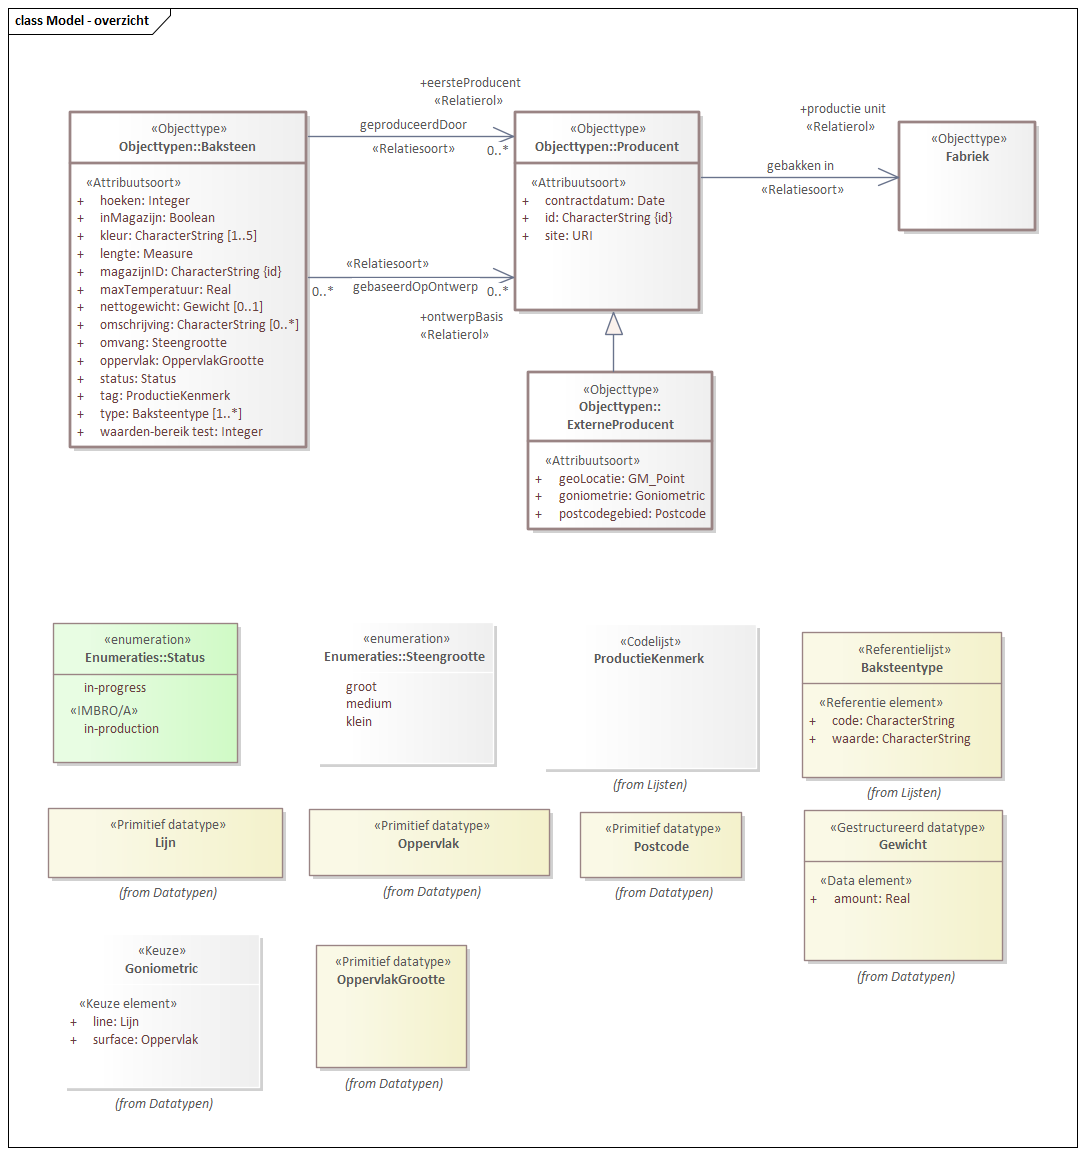
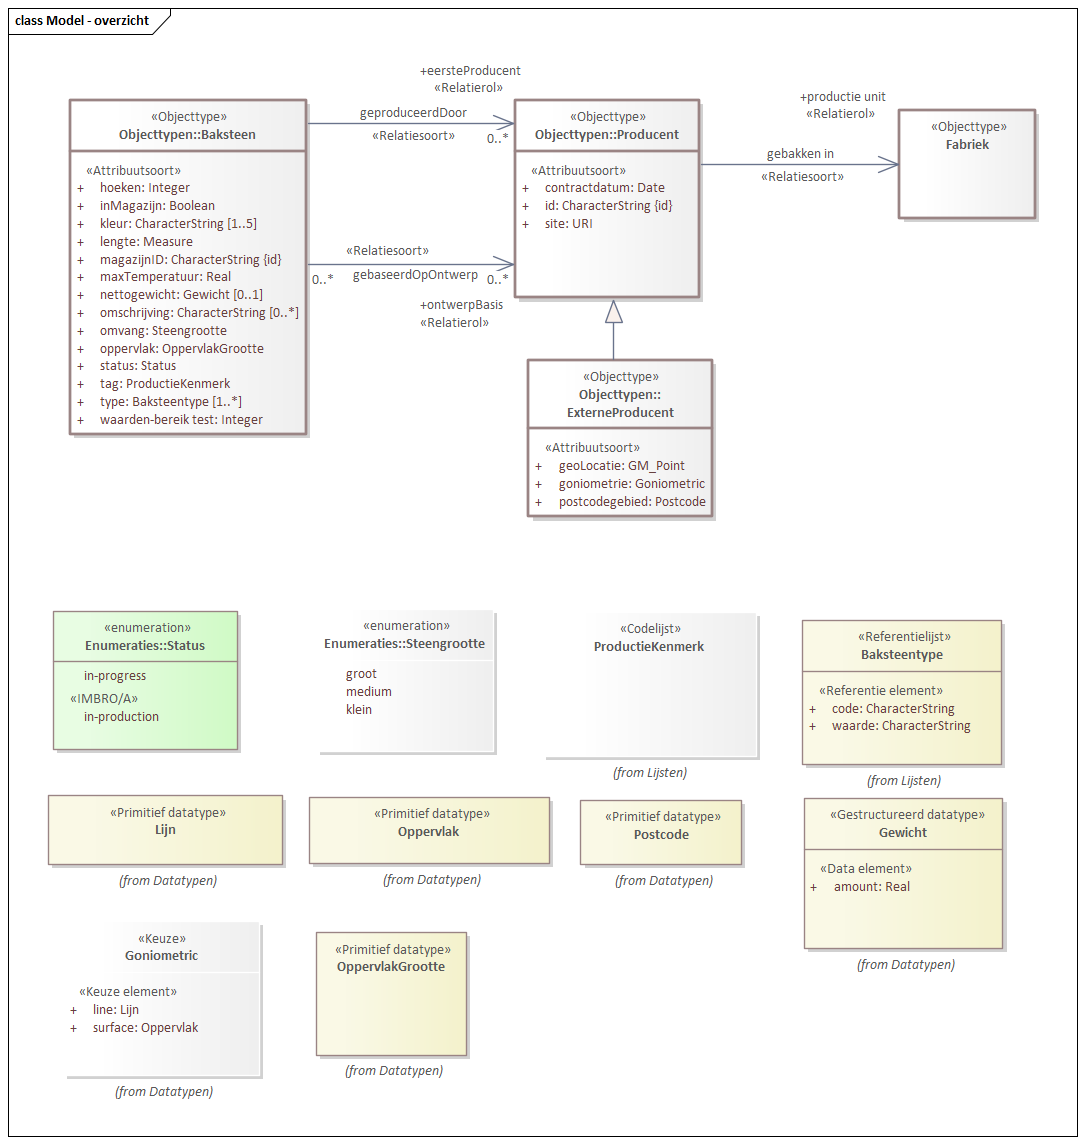
MIMCM-Bakstenenconceptueelmodel-1.0.0-2-20130318-20230112-090946

diff --git a/data/SAMPLE-cat.respec.html b/data/SAMPLE-cat.respec.html
@@ -1,11 +1,11 @@
 
 <!DOCTYPE HTML><section id="cat" class="normative">
    <h2>Gegevensdefinitie</h2>
-   <!--NEN3610-2022-Bakstenenconceptueelmodel-1.0.0-2-20130318-20230112-095435 imvertor Nightly-build.2--><a class="anchor" id="global_packages"></a><section id="global_packages">
+   <!--MIMCM-Bakstenenconceptueelmodel-1.0.0-2-20130318-20230112-090946 imvertor Nightly-build.2--><a class="anchor" id="global_packages"></a><section id="global_packages">
       <h3>Model   Bakstenen conceptueel model</h3>
       <section id="EAID_08513AA0_8A50_46c1_AD86_9B80D9A6AAE1">
          <h4>   Model - overzicht</h4>
-         <div class="imageinfo overview"><img src="data/Images/EAID_08513AA0_8A50_46c1_AD86_9B80D9A6AAE1.png" usemap="#imagemap-EAID_08513AA0_8A50_46c1_AD86_9B80D9A6AAE1" alt="Diagram &#xA;                        Overzicht van alle constructies in dit conceptuele model.&#xA;                        &#xA;                        Ook een regel met een diacriet [é].&#xA;                     "><map name="imagemap-EAID_08513AA0_8A50_46c1_AD86_9B80D9A6AAE1"><area shape="rect" alt="Accountmanager" coords="1102,400,1307,539" href="#graph_EAID_29D6B892_B943_494c_94C7_A13DB031E998"><area shape="rect" alt="ExterneProducent" coords="541,372,726,441" href="#graph_EAID_E2C93214_90E2_4151_B719_7BB8CDF8679F"><area shape="rect" alt="Baksteen" coords="48,99,326,318" href="#graph_EAID_CF7C4448_E50C_4c7a_B1D0_C4FCB2EB1814"><area shape="rect" alt="Producent" coords="541,112,726,311" href="#graph_EAID_04EED45C_4D30_41b9_83EE_65237E1F8E27"><area shape="rect" alt="Deal" coords="1088,99,1301,193" href="#graph_EAID_77692663_02DC_482e_827D_F7D28AF607D8"><area shape="rect" alt="Contract" coords="1348,263,1533,345" href="#graph_EAID_77987690_1141_457d_A33B_E1C7AA1EA812"><area shape="rect" alt="Client" coords="828,235,1071,331" href="#graph_EAID_DF955A82_3E49_4c9d_9C0C_74738600FE1B"></map><p><b>Model - overzicht</b>
+         <div class="imageinfo overview"><img src="data/Images/EAID_08513AA0_8A50_46c1_AD86_9B80D9A6AAE1.png" usemap="#imagemap-EAID_08513AA0_8A50_46c1_AD86_9B80D9A6AAE1" alt="Diagram &#xA;                        Overzicht van alle constructies in dit conceptuele model.&#xA;                        &#xA;                        Ook een regel met een diacriet [é].&#xA;                     "><map name="imagemap-EAID_08513AA0_8A50_46c1_AD86_9B80D9A6AAE1"><area shape="rect" alt="Accountmanager" coords="1102,387,1307,527" href="#graph_EAID_29D6B892_B943_494c_94C7_A13DB031E998"><area shape="rect" alt="ExterneProducent" coords="541,360,726,428" href="#graph_EAID_E2C93214_90E2_4151_B719_7BB8CDF8679F"><area shape="rect" alt="Baksteen" coords="48,86,326,305" href="#graph_EAID_CF7C4448_E50C_4c7a_B1D0_C4FCB2EB1814"><area shape="rect" alt="Producent" coords="541,100,726,298" href="#graph_EAID_04EED45C_4D30_41b9_83EE_65237E1F8E27"><area shape="rect" alt="Deal" coords="1088,86,1301,181" href="#graph_EAID_77692663_02DC_482e_827D_F7D28AF607D8"><area shape="rect" alt="Contract" coords="1348,251,1533,333" href="#graph_EAID_77987690_1141_457d_A33B_E1C7AA1EA812"><area shape="rect" alt="Client" coords="828,223,1071,319" href="#graph_EAID_DF955A82_3E49_4c9d_9C0C_74738600FE1B"></map><p><b>Model - overzicht</b>
                
                <p>Overzicht van <i>alle constructies</i> in dit conceptuele model.</p>
                
@@ -19,7 +19,7 @@
       <h3>Domein   Baksteen productie</h3>
       <section id="EAID_84CEDDF3_6992_489f_A4EE_319145DE4118">
          <h4>   Model - overzicht</h4>
-         <div class="imageinfo overview"><img src="data/Images/EAID_84CEDDF3_6992_489f_A4EE_319145DE4118.png" usemap="#imagemap-EAID_84CEDDF3_6992_489f_A4EE_319145DE4118" alt="Diagram &#xA;                        Overzicht van alle constructies in dit model voor bakstenen en hun producenten.&#xA;                     "><map name="imagemap-EAID_84CEDDF3_6992_489f_A4EE_319145DE4118"><area shape="rect" alt="Fabriek" coords="899,122,1036,231" href="#graph_EAID_0D13D4A0_F7FA_4417_A5FC_3F4C83F067F2"><area shape="rect" alt="Postcode" coords="580,812,742,878" href="#graph_EAID_6E1568CE_9039_4ed8_B360_291D77922C9F"><area shape="rect" alt="Gewicht" coords="804,810,1003,961" href="#graph_EAID_11FD40A5_BE06_452a_9307_B5B5155E0EA4"><area shape="rect" alt="Baksteentype Baksteentype" coords="802,632,1002,778" href="#graph_EAID_705E4D02_09C2_4812_AA1F_D80E12C89EE0"><area shape="rect" alt="Steengrootte" coords="316,622,494,764" href="#graph_EAID_65363897_E229_41fd_BE6F_E6B1BACAD458"><area shape="rect" alt="Oppervlak" coords="309,809,550,876" href="#graph_EAID_8860422B_51C4_4f67_B9C4_90B01A356442"><area shape="rect" alt="Status" coords="53,623,238,763" href="#graph_EAID_E86D21EE_58FD_4975_9CCB_AFF2434704A8"><area shape="rect" alt="Lijn" coords="48,808,283,878" href="#graph_EAID_05E012A3_0E45_4b91_8F93_3CC0D50B0509"><area shape="rect" alt="Goniometric" coords="63,934,260,1088" href="#graph_EAID_22DF50AD_91EB_4db3_AA33_D5C2CE2FB906"><area shape="rect" alt="ExterneProducent" coords="528,372,713,530" href="#graph_EAID_E2C93214_90E2_4151_B719_7BB8CDF8679F"><area shape="rect" alt="Baksteen" coords="70,112,307,448" href="#graph_EAID_CF7C4448_E50C_4c7a_B1D0_C4FCB2EB1814"><area shape="rect" alt="ProductieKenmerk" coords="542,624,757,769" href="#graph_EAID_4D78F0AD_88ED_44ef_9A76_163426CD74D1"><area shape="rect" alt="Producent" coords="515,112,700,311" href="#graph_EAID_04EED45C_4D30_41b9_83EE_65237E1F8E27"><area shape="rect" alt="OppervlakGrootte" coords="316,945,467,1068" href="#graph_EAID_8D034A6D_37F7_4765_9CFF_FE3DF59A8340"></map><p><b>Model - overzicht</b>
+         <div class="imageinfo overview"><img src="data/Images/EAID_84CEDDF3_6992_489f_A4EE_319145DE4118.png" usemap="#imagemap-EAID_84CEDDF3_6992_489f_A4EE_319145DE4118" alt="Diagram &#xA;                        Overzicht van alle constructies in dit model voor bakstenen en hun producenten.&#xA;                     "><map name="imagemap-EAID_84CEDDF3_6992_489f_A4EE_319145DE4118"><area shape="rect" alt="Fabriek" coords="899,110,1036,219" href="#graph_EAID_0D13D4A0_F7FA_4417_A5FC_3F4C83F067F2"><area shape="rect" alt="Postcode" coords="580,800,742,865" href="#graph_EAID_6E1568CE_9039_4ed8_B360_291D77922C9F"><area shape="rect" alt="Gewicht" coords="804,798,1003,949" href="#graph_EAID_11FD40A5_BE06_452a_9307_B5B5155E0EA4"><area shape="rect" alt="Baksteentype Baksteentype" coords="802,620,1002,765" href="#graph_EAID_705E4D02_09C2_4812_AA1F_D80E12C89EE0"><area shape="rect" alt="Steengrootte" coords="316,609,494,752" href="#graph_EAID_65363897_E229_41fd_BE6F_E6B1BACAD458"><area shape="rect" alt="Oppervlak" coords="309,797,550,864" href="#graph_EAID_8860422B_51C4_4f67_B9C4_90B01A356442"><area shape="rect" alt="Status" coords="53,611,238,750" href="#graph_EAID_E86D21EE_58FD_4975_9CCB_AFF2434704A8"><area shape="rect" alt="Lijn" coords="48,795,283,865" href="#graph_EAID_05E012A3_0E45_4b91_8F93_3CC0D50B0509"><area shape="rect" alt="Goniometric" coords="63,921,260,1076" href="#graph_EAID_22DF50AD_91EB_4db3_AA33_D5C2CE2FB906"><area shape="rect" alt="ExterneProducent" coords="528,360,713,517" href="#graph_EAID_E2C93214_90E2_4151_B719_7BB8CDF8679F"><area shape="rect" alt="Baksteen" coords="70,100,307,435" href="#graph_EAID_CF7C4448_E50C_4c7a_B1D0_C4FCB2EB1814"><area shape="rect" alt="ProductieKenmerk" coords="542,612,757,757" href="#graph_EAID_4D78F0AD_88ED_44ef_9A76_163426CD74D1"><area shape="rect" alt="Producent" coords="515,100,700,298" href="#graph_EAID_04EED45C_4D30_41b9_83EE_65237E1F8E27"><area shape="rect" alt="OppervlakGrootte" coords="316,932,467,1056" href="#graph_EAID_8D034A6D_37F7_4765_9CFF_FE3DF59A8340"></map><p><b>Model - overzicht</b>
                
                <p>Overzicht van alle constructies in dit model voor bakstenen en hun producenten.</p>
                </p>
@@ -75,7 +75,7 @@
             
             <section id="EAID_EB759E5B_3FAA_4064_A73E_704926072F89">
                <h6>   Baksteen - detail</h6>
-               <div class="imageinfo "><img src="data/Images/EAID_EB759E5B_3FAA_4064_A73E_704926072F89.png" usemap="#imagemap-EAID_EB759E5B_3FAA_4064_A73E_704926072F89" alt="Diagram &#xA;                              Gedetailleerde informatie over Baksteen objectttype, inclusief traces.&#xA;                           "><map name="imagemap-EAID_EB759E5B_3FAA_4064_A73E_704926072F89"><area shape="rect" alt="Producent" coords="289,68,446,208" href="#graph_EAID_04EED45C_4D30_41b9_83EE_65237E1F8E27"><area shape="rect" alt="Baksteen" coords="268,324,511,660" href="#graph_EAID_CF7C4448_E50C_4c7a_B1D0_C4FCB2EB1814"></map><p><b>Baksteen - detail</b>
+               <div class="imageinfo "><img src="data/Images/EAID_EB759E5B_3FAA_4064_A73E_704926072F89.png" usemap="#imagemap-EAID_EB759E5B_3FAA_4064_A73E_704926072F89" alt="Diagram &#xA;                              Gedetailleerde informatie over Baksteen objectttype, inclusief traces.&#xA;                           "><map name="imagemap-EAID_EB759E5B_3FAA_4064_A73E_704926072F89"><area shape="rect" alt="Producent" coords="164,68,322,208" href="#graph_EAID_04EED45C_4D30_41b9_83EE_65237E1F8E27"><area shape="rect" alt="Baksteen" coords="144,324,386,660" href="#graph_EAID_CF7C4448_E50C_4c7a_B1D0_C4FCB2EB1814"></map><p><b>Baksteen - detail</b>
                      
                      <p>Gedetailleerde informatie over Baksteen objectttype, inclusief traces.</p>
                      </p>
@@ -102,7 +102,7 @@
                      <th>Toelichting</th>
                      <td>
                         
-                        <p>Een baksteen is een soort bouwmateriaal, <em>maar alleen als het uit klei is gemaakt door 1e graads-bevoegde mensen</em>.</p>
+                        <p>Een baksteen is een soort bouwmateriaal, <em>maar alleen als het uit klei is gemaakt door 2e graads-bevoegde mensen</em>.</p>
                         </td>
                   </tr>
                </tbody>
@@ -2866,7 +2866,7 @@
 </section>
 <section id="lis" class="normative">
    <h2>Inhoud van waardenlijsten</h2>
-   <!--NEN3610-2022-Bakstenenconceptueelmodel-1.0.0-2-20130318-20230112-095435 imvertor Nightly-build.2-->
+   <!--MIMCM-Bakstenenconceptueelmodel-1.0.0-2-20130318-20230112-090946 imvertor Nightly-build.2-->
    <section id="">
       <h3>Referentielijst inhoud   </h3><a class="anchor" id="graph_EAID_705E4D02_09C2_4812_AA1F_D80E12C89EE0"></a><a class="anchor" id="detail_class_BaksteenProductie_Baksteentype"></a><section id="detail_class_BaksteenProductie_Baksteentype">
          <h4>Referentielijst  Baksteentype</h4>
